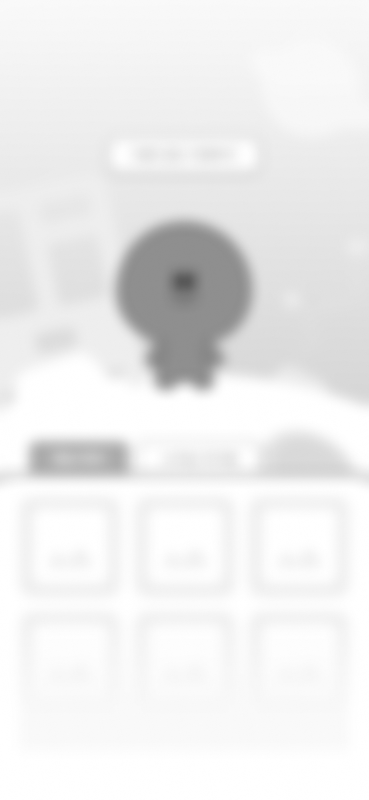
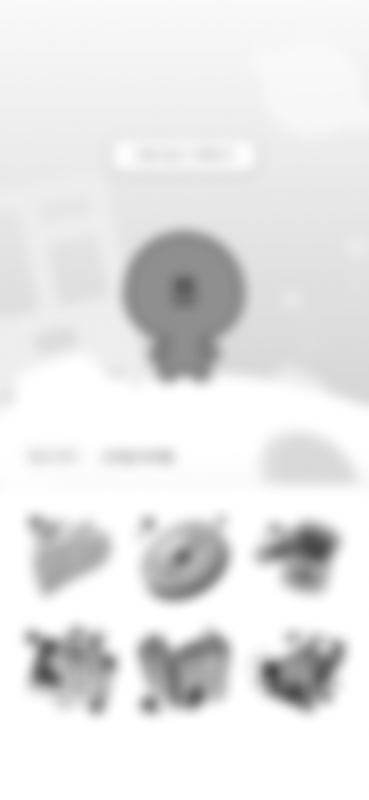
MOMO-91: add challenge screen

diff --git a/src/screens/ChallengeScreen.js b/src/screens/ChallengeScreen.js
@@ -1,14 +1,30 @@
-import { Text, View, StyleSheet } from 'react-native';
+import { Image, View, StyleSheet, Dimensions } from 'react-native';
 import React from 'react';
 
+import Background from '../assets/images/challenge_background.png';
+import ComingSoonImage from '../assets/images/wip.svg';
+
 const ChallengeScreen = () => {
+    var {height, width} = Dimensions.get('window');
     return (
-        <View>
-            <Text>ChallengeScreen</Text>
+        <View style={styles.container}>
+            <Image source={Background} style={{height: height, width: width, resizeMode: 'stretch'}}/>
+            <ComingSoonImage style={styles.coomingsoonContainer}/>
         </View>
     );
 };
 
-export default ChallengeScreen;
+const styles = StyleSheet.create({
+    container:{
+        flex: 1,
+        alignItems: 'center',
+        justifyContent: 'center',
+        height: '100%',
+        width: '100%'
+    },
+    coomingsoonContainer:{
+        position:'absolute'
+    }
+});
 
-const styles = StyleSheet.create({});
+export default ChallengeScreen;
